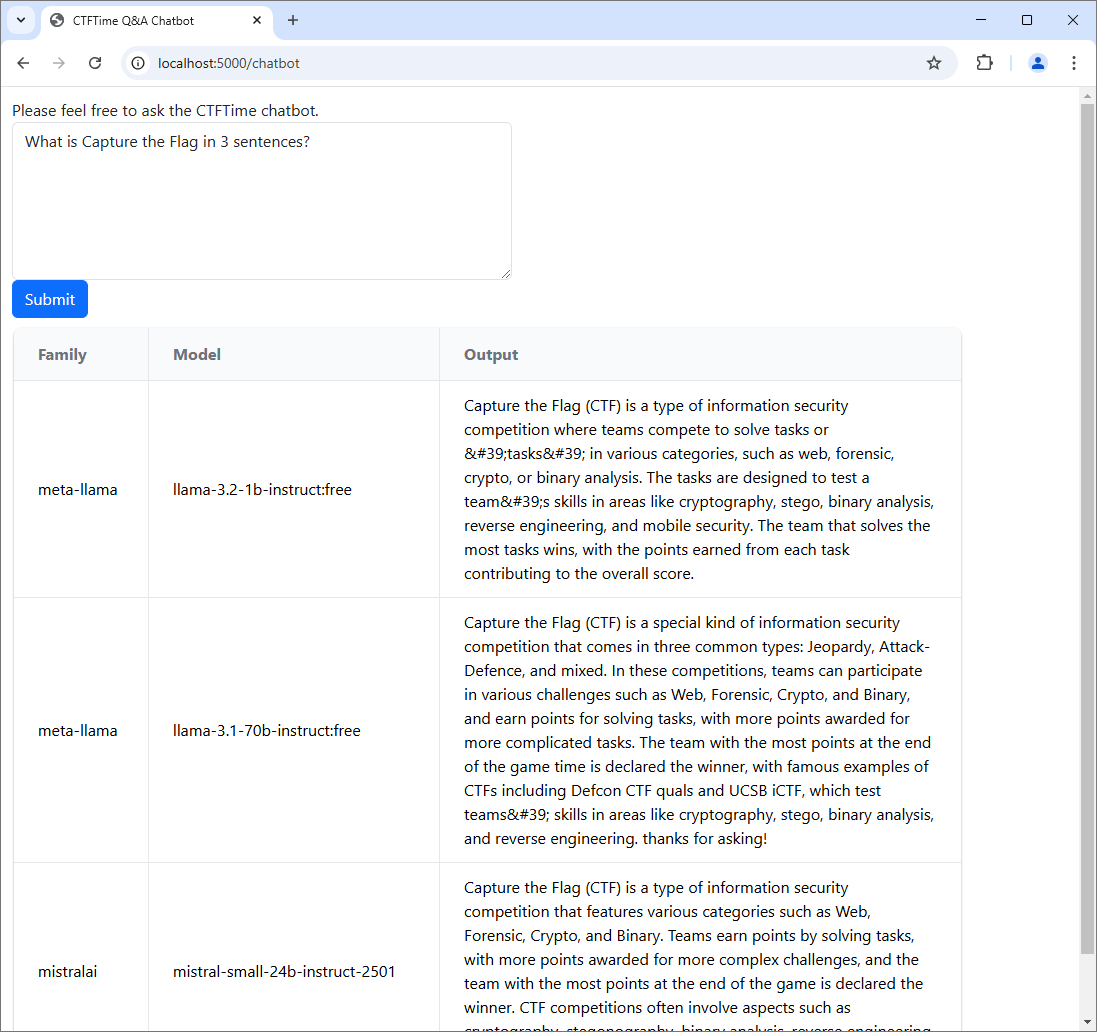
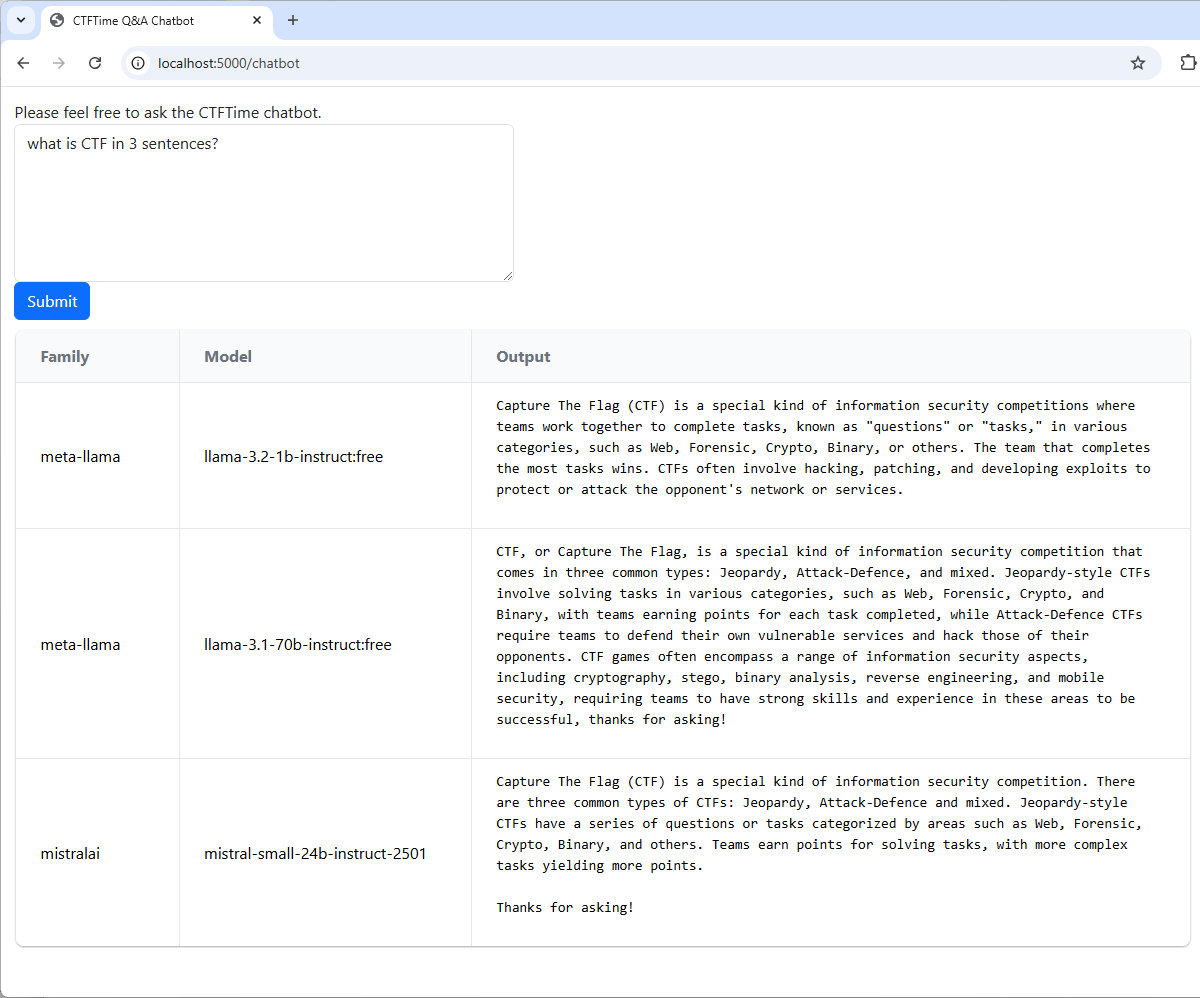
Fix frontend rendering linebreaks or quotation marks, use js to render responses instead of directly from jinja2 variable

diff --git a/app/templates/chatbot.html b/app/templates/chatbot.html
@@ -10,7 +10,7 @@
   </head>
   <body>
 
-    <form action="chatbot" method="post" style="width: 500px;">
+    <form id='chatbot-form' action="chatbot" method="post" style="width: 500px;">
       <div class="form-group">
         <label for="prompt">Please feel free to ask the CTFTime chatbot.</label>
         <textarea class="form-control" name="prompt" id="prompt" rows="6" placeholder="What is CTF?">{{ prompt }}</textarea>
@@ -24,22 +24,43 @@
   <script src="{{ url_for('static', filename='js/external/bootstrap.5.3.3.min.js') }}"></script>
   <script src="{{ url_for('static', filename='js/external/gridjs.6.2.0.umd.js') }}"></script>
   <script>
+      function setResponseFormat(cell, row, attributes) {
+        // maintain line breaks or quotation marks
+        // line wrap is done in css
+        cell = `<pre>${cell}</pre>`;
+        return gridjs.html(cell);
+      }
       new gridjs.Grid({
         columns: [
           { id: 'family_name', name: 'Family', width: '15%' },
           { id: 'model_name', name: 'Model', width: '20%' },
-          { id: 'output', name: 'Output', width: '60%' },
+          { id: 'output', name: 'Output', width: '60%', formatter: (cell, row, attributes) => setResponseFormat(cell, row, attributes) },
         ],
-        // need async, to be done
-        data: [
-          {% for model in models %}
-            {
-              family_name: '{{ model.family_name }}',
-              model_name: '{{ model.model_name }}',
-              output: "{{ model.output }}",
-            },
-          {% endfor %}
-        ],
+        server: {
+          url: '{{ url_for("get_inference") }}',
+          data: (opts) => {
+            return new Promise((resolve, reject) => {
+              const xhttp = new XMLHttpRequest();
+              xhttp.onreadystatechange = function() {
+                if ( this.readyState === 4 ) {
+                  if ( this.status === 200 ) {
+                    const resp = JSON.parse(this.response);
+                    resolve({
+                      data: resp.data.map(output => [output.family_name, output.model_name, output.output]),
+                      total: resp.total_models,
+                    });
+                  } else {
+                    reject();
+                  }
+                }
+              };
+              var formData = new FormData( document.getElementById("chatbot-form") );
+              // need async for each model, to be done
+              xhttp.open("POST", opts.url, true);
+              xhttp.send(formData);
+            });
+          }
+        }
         //search: true,
         //sort: true,
         //pagination: true,

diff --git a/app/static/css/app/base.css b/app/static/css/app/base.css
@@ -2,3 +2,7 @@ body {
     position: relative;
     margin: 1%;
 }
+
+pre {
+    white-space: pre-wrap;
+}

diff --git a/app/app.py b/app/app.py
@@ -8,6 +8,20 @@ app = Flask(__name__)
 @app.route('/chatbot', methods=["GET", "POST"])
 def chatbot():
 
+    if request.method == 'GET':
+
+        prompt = ''
+
+    if request.method == 'POST':
+
+        prompt = request.form["prompt"]
+
+    return render_template('chatbot.html', prompt=prompt)
+
+# todo: figure out how grid.js can handle async requests for each model
+# to be separated into llm's own routes, when it's of more complex project size
+@app.route('/chatbot/inference', methods=["POST"])
+def get_inference():
     # the available model names will be separated from this function
     models = [
         {'family_name': 'meta-llama', 'model_name': 'llama-3.2-1b-instruct:free'},
@@ -15,37 +29,21 @@ def chatbot():
         {'family_name': 'mistralai', 'model_name': 'mistral-small-24b-instruct-2501'},   # not free, skip during development
     ]
 
-    if request.method == 'GET':
+    prompt = request.form['prompt']
+    if not prompt:
+        return {'data': [], 'total_models': 0}
 
-        prompt = ''
+    data = []
 
-        for model in models:
-            model['output'] = 'N/A'
-
-    if request.method == 'POST':
-
-        prompt = request.form["prompt"]
-
-        for model in models:
-            text = get_response(prompt, model['family_name'], model['model_name'])
-            if text is None:
-                text = '[Internal Error] please try again'
-            # todo: need to cater for how to display new line in the output in frontend
-            model['output'] = text.replace('"', "'").replace('\n', '\\n')   # dirty way for now to avoid quotes / newline crashing the javascript in grid.js
-
-    return render_template('chatbot.html', models=models, prompt=prompt)
-
-# this function should be used, to do inference per model instead of as a whole
-# todo: figure out how grid.js can handle async requests for each model
-# to be separated into llm's own routes, when it's of more complex project size
-@app.route('/chatbot/inference', methods=["POST"])
-def get_inference():
-    prompt = 'what is CTF?'
-    family_name = 'meta-llama'
-    model_name = 'llama-3.2-1b-instruct:free'
-    text = get_response(prompt, family_name, model_name)
+    for model in models:
+        family_name = model['family_name']
+        model_name = model['model_name']
+        text = get_response(prompt, family_name, model_name)
+        data.append(
+            {'family_name': family_name, 'model_name': model_name, 'output': text}
+        )
     # todo: add evaluation results
-    return text
+    return {'data': data, 'total_models': len(data)}
 
 if __name__ == '__main__':
     app.run(host='0.0.0.0', port=5000)
